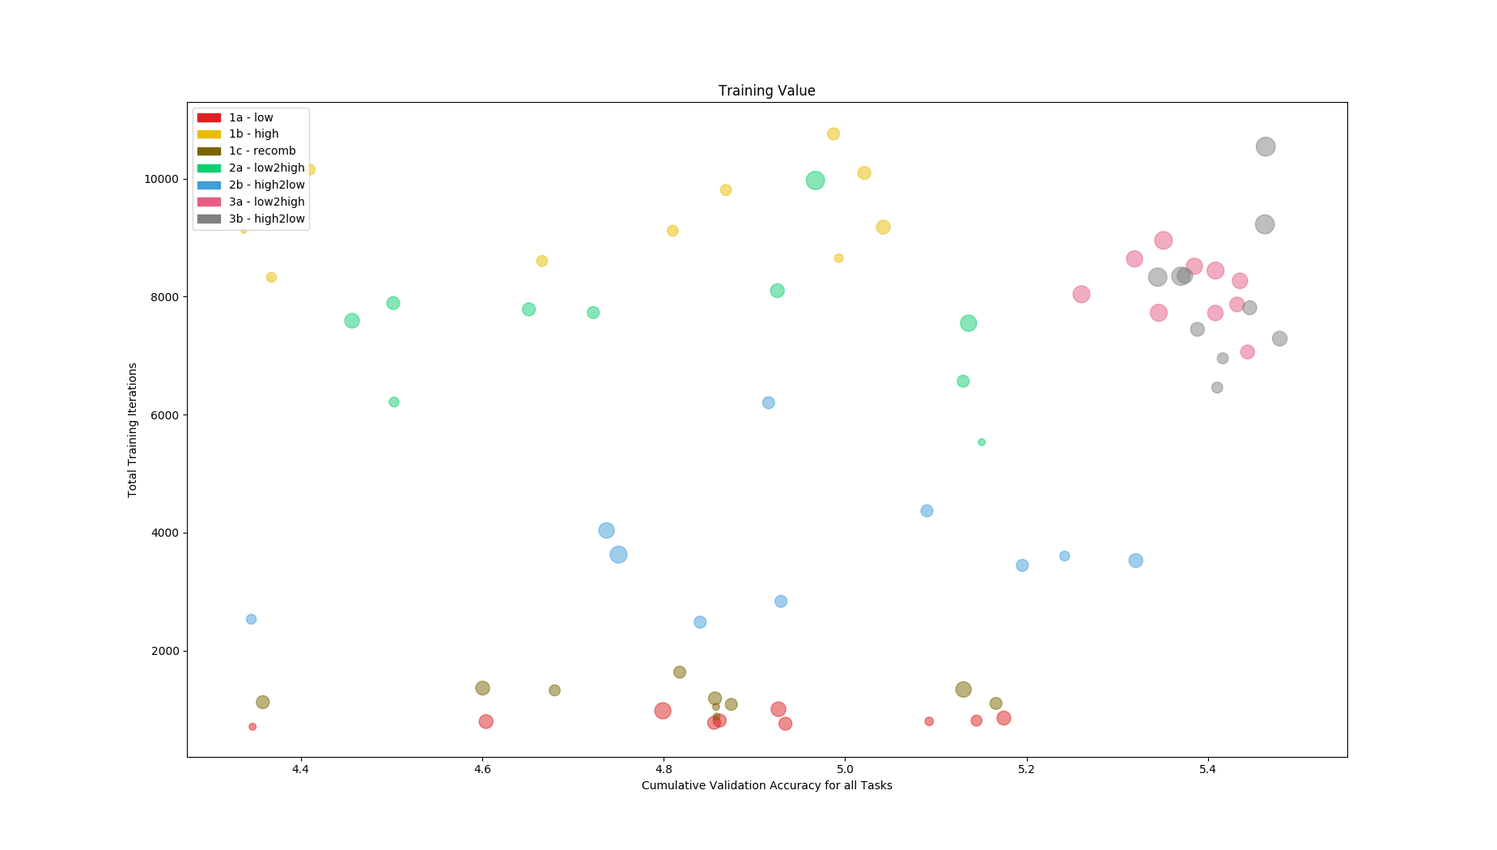
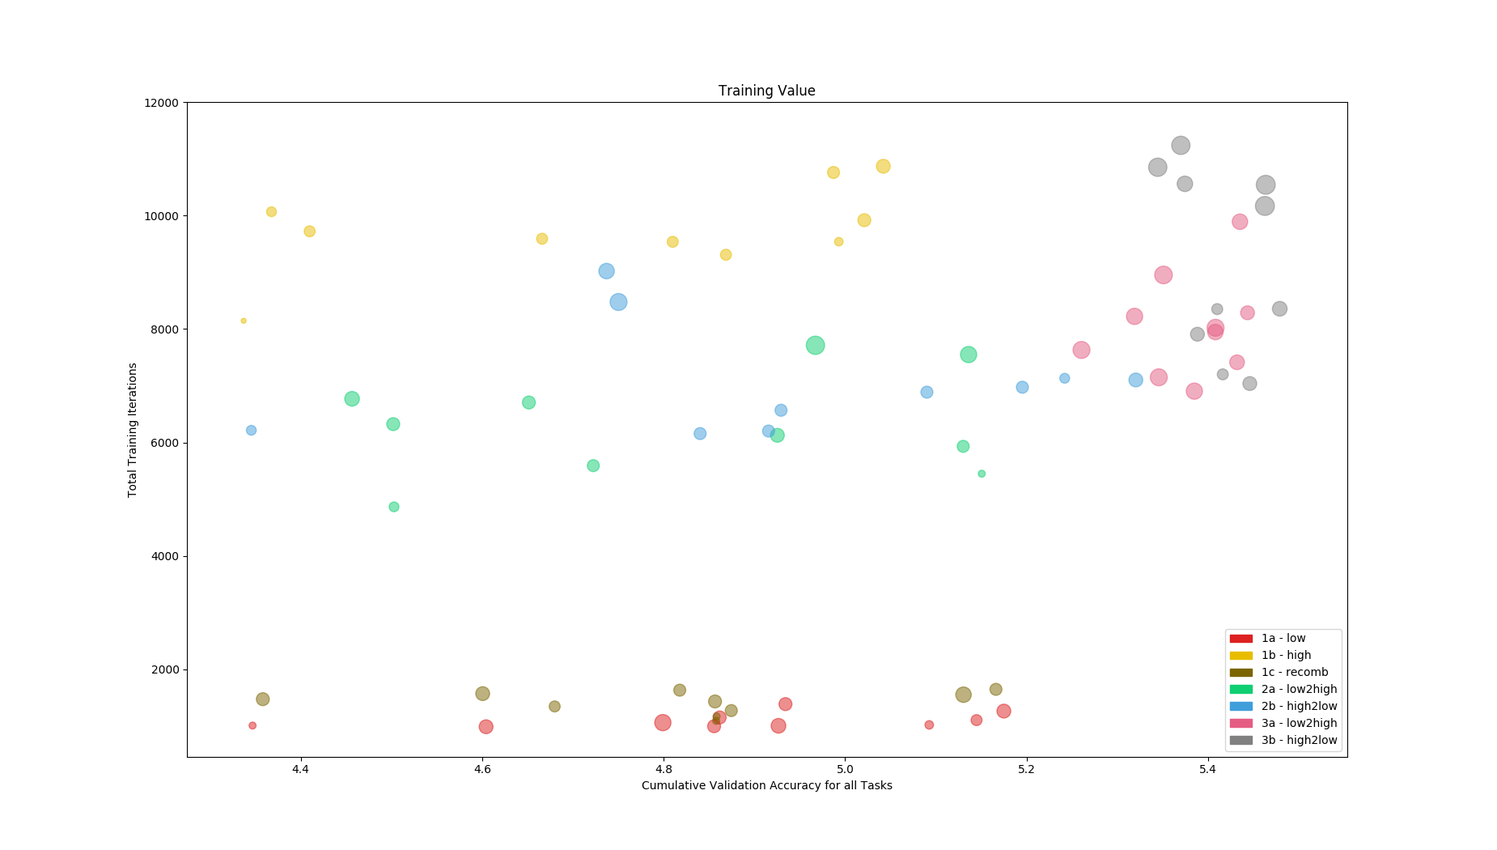
Results and discussions are close to being finished.

diff --git a/Chapters/Experiments/search_algo/tournament_searching.tex b/Chapters/Experiments/search_algo/tournament_searching.tex
@@ -102,7 +102,6 @@ It is hard to tell how the validated classification accuracy on the final task w
 
 % Some illustration of exploration vs exploitation: Hypothesis figure of where i think algorithms falls
 
- 
 \section{Implementation}\label{Search-implementation}
 \subsection{PathNet}
 The PathNet structure used for these experiments have three layers of 20 modules where each path may contain one, two or three modules in each layer. The 20 modules were selected to make sure there would be a a non-zero probability of selecting only empty modules for all tasks, even if all optimal tasks contained the maximum number of modules without any module overlap between tasks.
@@ -130,20 +129,20 @@ The order of paths still affect the the training but the fitness used for select
 The same reason influence the final step of the tournament search. When the limit of a hundred generations is reached, all paths in the population is evaluated again. Since the true fitness of a path might change from one generation to the next, only the paths participating in the final tournament has its true fitness score as part of the selection of the optimal path. As with the evaluation step, the final fitness of a path is the reached classification accuracy of one training unit (50 mini-batches of 16 samples). Using an actual validation set for this step might yield better, or at least more accurate, fitnesses to use as a basis for path-selection, but that would significantly increase the run-time of an already time intensive experiment. 
 
 \section{Results}\label{Search-results}
-Due to the experimentation being time-consuming, each algorithm were run 10 times, where logs were saved after each experimental run of each algorithm. The following plots have been separated in three groups based on subject: paths, search and training. 
+Due to the experimentation being time-consuming, each algorithm were run 10 times and logs were saved after each experimental run of each algorithm. The following plots have been separated in three groups based on subject: paths, search and training. 
 
 \subsection{Paths}
-\begin{figure}[h]
+\begin{figure}[p!]%[h]
     \includegraphics[width=\textwidth]{Chapters/Experiments/search_algo/figures/Average_path_size.png}
     \caption{Change in average path size for each tournament scheme plotted for each task.}
     \label{fig:search.avg_path_size}
 \end{figure}
 
-Figure \ref{fig:search.avg_path_size} visualize the average path size within the average population for all generations. Each subplot is for one Task and the search for that tasks optimal path. As each path contains between three and nine modules, the average path size is six and this is reflected in the plots where the average path size for all algorithms is around 6 for the first generations. Each search starts with a randomly initialized population of paths. Note the span of sizes plotted reach from around 5.5 to around 7.5, which indicates the average initialized size of 6 does not contain enough capacity as more often than not, the searches converges towards larger path sizes, especially for the later three tasks based on the cSVHN set. 
+Figure \ref{fig:search.avg_path_size} visualize the average path size within the average population for all generations. Each subplot is for one Task and the search for that tasks optimal path. As each path contains between three and nine modules, the average path size is six and this is reflected in the plots where this is the initial value for the first generations. Each search starts with a randomly initialized population of paths. Note the span of sizes plotted reach from around 5.5 to around 7.5, which indicates the average initialized size of 6 does not contain enough capacity as more often than not, the searches converges towards larger path sizes, especially for the later three tasks based on the cSVHN set. 
 
 A feature of this plot is the steep jump and quick convergence to a size for the searches with high selection pressure in for the early generations. Since mutation only causes the index of a module to change by a value between -2 and 2, the size of a path can not change during mutation \footnote{A path can not include the same module multiple times. If a module is mutated to overlap an existing one, it is removed. This causes the path to contain fewer modules, so mutated modules are added back in until original path size is reached.}. This means when algorithms with high selection pressure converges to a size early in the search, the size of paths can never change. For searches with low selection pressure (algorithm 1a, 1b, 2a for the earlier tasks and 2b for the later tasks), the generation limit of 100 is to low to let them reach an optimal size. 
 
-\begin{figure}[h]
+\begin{figure}[p!]%[h]
     \includegraphics[width=\textwidth]{Chapters/Experiments/search_algo/figures/Capacity_pr_generation.png}
     \caption{The average number of used modules during the multi-task learning sequence. Each jump is caused by the saving of an optimal path and then starting a new search for a new task. }
     \label{fig:search.capacity}
@@ -151,56 +150,101 @@ A feature of this plot is the steep jump and quick convergence to a size for the
 
 In figure \ref{fig:search.capacity} we can see some of the influence of path size in the average cumulative amount of capacity used during all generations. As with plot \ref{fig:search.avg_path_size}, the curves starts at capacity 6 and for the same reason. 
 
-For task 4 the capacity usage have separated for the three algorithm groups. All algorithms with static tournament size use less modules in the total PathNet than the other algorithms, and algorithms with changing tournament size between tasks use less than group three. Note that all algorithms has a higher capacity usage than the dotted gray line which marks the amount of module reuse that would have been reached for 6 tasks if all paths had a random module selection\footnote{This value was reached with a Monte Carlo approach.}.
+For task 4 the capacity usage have separated for the three algorithm groups. All algorithms with static tournament size use less modules in the total PathNet than the other algorithms, and algorithms with changing tournament size between tasks use less than group three. Note that all algorithms has a higher capacity usage than the dotted gray line which marks the amount of module reuse that would have been reached for 6 tasks if all paths had a random module selection\footnote{These values are reached by a Monte Carlo approach where \(10^{6}\) sequences of 6 random paths were selected in the same sized PathNet and the capacity used averaged.}.
 
-
-\subsection{Population Diversity}
-\ref{fig:search.hamming_diversity} visualizes the average calculated population diversity for each algorithm for each task. As this metric is dependent on the size of population as well as the number of genes in a genotype, the value at one point in the generation is not depictive of anything, but instead, the overall trend of the measure indicates at what rate the algorithm converges. 
-
-\begin{figure}[h]
-    \includegraphics[width=\textwidth]{Chapters/Experiments/search_algo/figures/Average_population_diversity_reduced_hamming.png}
-    \caption{The average pairwise Hamming distance within each generation is used as a measure for population diversity. Each subplot (in order left to right) is each task in trained order.}
-    \label{fig:search.hamming_diversity}
-\end{figure}
-
-As with plot \ref{fig:search.avg_path_size}, high selection pressures lead to rapid changes in diversity. This is because the searches with high selection pressure have a high tournament size compared with the population size. When a generation is over and  the tournament winner replace all losers, the population makes a large shift diversity unless most of the tournament participants have a similar genome. At that point, the probability that the population have converged is quite large. 
-
-\begin{figure}[h]
-    \includegraphics[width=\textwidth]{Chapters/Experiments/search_algo/figures/frequency_diversity_unique_path_count.png}
-    \caption{The number of unique paths within a population. Plotted for every task and every algorithm.}
-    \label{fig:search.frequency_diversity_unique}
-\end{figure}
-
-
-The Hamming distance between two binary genomes gives what is essentially the edit distance and not a measure of the fundamental difference between the genomes. This means the Hamming metric is accurate and quite descriptive when looking at one gene at a time, but for larger genomes can be somewhat miss leading in some circumstances. If for instance, a population consists of three even groups of three types of genomes, if one of the groups is split on the two other the diversity of the whole population have gone down\footnote{This is fairly obvious since we in this scenario is left with only two types of genomes, while we started with three}, but the pair-wise Hamming distance might have gone up. Because of this, it is hard to tell if the constantly high diversity levels is caused by using pair-wise Hamming distance as metric, or for instance high mutation probabilities. This effect becomes clear when comparing plot \ref{fig:search.hamming_diversity} with plot \ref{fig:search.frequency_diversity_unique}. This plot visualizes the amount of unique paths in a population and has therefore some problems that Hamming distance does not. Imagine a population containing two of the same path. If one of these mutates and one of the modules changes, Hamming increase by one which is negligible compared with the total Hamming score. A frequency count will also increase by one, but has a max value of 64 and therefore is a significant change. 
-
-\begin{figure}[h]
+\begin{figure}[p!]%[h]
     \includegraphics[width=\textwidth]{Chapters/Experiments/search_algo/figures/Module_reuse_pr_generation.png}
     \caption{The average module reuse during the multi-task learning sequence. Each jump is caused by the saving of an optimal path, and the next task having more locked modules to reuse. The first 100 generations does not have any previously learned knowledge to reuse.}
     \label{fig:search.reuse}
 \end{figure}
 
+The similar plot \ref{fig:search.reuse} show how the average amount of module reuse change during the generations. As with plot \ref{fig:search.capacity}, the dotted grey line represents the amount of module reuse in a random selection of modules\footnote{These values are reached by a Monte Carlo approach similar to plot \ref{fig:search.capacity}.} instead of search. Between the two last tasks we see a large jump in module reuse for algorithm 2a compared to the rest. The dynamic tournament size algorithms 3a and 3b has the least reuse for task 4 and 3b seem to lower its reuse significantly during each search. 
+
+When visualizing search features for the different algorithms that stem from different generations during each search, the algorithms using a high tournament size have curves undergoing rapid changes and algorithms using low tournament sizes have curves with more gradual changes. Plot \ref{fig:search.reuse} is no different, which can make it hard to tell if there is an increase or decrease in reuse for algorithms 1b and 2a for the last 600 generations. 
+
+\subsection{Population Diversity}
+\ref{fig:search.hamming_diversity} visualizes the average calculated population diversity for each algorithm for each task. As this metric is dependent on the size of population as well as the number of genes in a genotype, the value at one point in the generation is not depictive of anything, but instead, the overall trend of the measure indicates at what rate the algorithm converges. 
+
+\begin{figure}[p!]%[h]
+    \includegraphics[width=\textwidth]{Chapters/Experiments/search_algo/figures/Average_population_diversity_reduced_hamming.png}
+    \caption{The average pairwise Hamming distance within each generation is used as a measure for population diversity. Each subplot (in order left to right) is each task in trained order.}
+    \label{fig:search.hamming_diversity}
+\end{figure}
+
+As with plot \ref{fig:search.avg_path_size}, high selection pressures lead to rapid changes in diversity. This is because the searches with high selection pressure have a high tournament size compared with the population size. When a generation is over and  the tournament winner replace all losers, the population makes a large shift in diversity unless most of the tournament participants have a similar genome. At that point, the probability that the population have converged is quite large. 
+
+\begin{figure}[p!]%[h]
+    \includegraphics[width=\textwidth]{Chapters/Experiments/search_algo/figures/frequency_diversity_unique_path_count.png}
+    \caption{The number of unique paths within a population. Plotted for every task and every algorithm.}
+    \label{fig:search.frequency_diversity_unique}
+\end{figure}
+
+The Hamming distance between two binary genomes gives what is essentially the edit distance and not a measure of the fundamental difference between the genomes. This means the Hamming metric is accurate and quite descriptive when looking at one gene at a time, but for larger genomes can be somewhat misleading in some circumstances. Take for instance, a population consisting of three even groups of three types of genomes. If one group is replaced with genomes from the two other groups such that the population consists of two equal parts of each genome, the diversity of the whole population have gone down\footnote{This is fairly obvious since we in this scenario is left with only two types of genomes, while we started with three}, but the pair-wise Hamming distance might have gone up. Because of this, it is hard to tell if the constantly high diversity levels is caused by using pair-wise Hamming distance as metric, or for instance high mutation probabilities. This effect becomes clear when comparing plot \ref{fig:search.hamming_diversity} with plot \ref{fig:search.frequency_diversity_unique}. This plot visualizes the amount of unique paths in a population and has therefore some problems as a diversity metric that Hamming distance does not. A mutated genome would be considered to be a similar genotype to its original state, and a pair-wise Hamming distance would reflect this by only counting the small genome change between these two. On the other hand, a unique genotype frequency metric would count these two genotypes as completely different.
+
 \subsection{Training}
-\begin{figure}[h]
+\begin{figure}[p!]%[h]
     \includegraphics[width=\textwidth]{Chapters/Experiments/search_algo/figures/Training_accuracy.png}
     \caption{Average training accuracy during search. The dotted lines is the average achieved validation accuracy for that task and that algorithm.}
     \label{fig:search.accuracy}
 \end{figure}
+As the training of each path is done during and controlled by the search, how the average training accuracy develops gives an indication of how quickly the algorithms are able to influence the overall PathNet to learn a task. As discussed previously, the act of training one tournament of genomes effect the previously evaluated fitness values. Because of this, the populations average fitness values would be a highly misleading metric to use and therefore what is plotted here is the average fitness score achieved within a each generations tournament. Also plotted is the average validation accuracy reach for each algorithm. This validation score is only calculated after an optimal path have been found for each task, and can therefore not be viewed as a function of generation number. 
 
-\begin{figure}[h]
+\begin{figure}[p!]%[h]
     \includegraphics[width=\textwidth]{Chapters/Experiments/search_algo/figures/Training_value.png}
     \caption{The total amount of training in all optimal paths for each multi-task learning sequence plotted against the cumulative validation accuracy reached for that sequence. The circle size corresponds to the total number of used PathNet modules.}
     \label{fig:search.training_value}
 \end{figure}
 
-\begin{figure}[h]
-    \includegraphics[width=\textwidth]{Chapters/Experiments/search_algo/figures/Used_training_ratio.png}
-    \caption{Boxplot of the ratio of training in optimal path on total training.}
-    \label{fig:search.usefull_training}
-\end{figure}
+The training value plot \ref{fig:search.training_value} the amount of training each multi task sequence went through for all 6 tasks. As expected, algorithms with high tournament size (algorithm 1b) have the higher amount of training units, while the low tournament size algorithms (algorithm 1a and 1c) undergo the least training.
 
+The x axis in this plot is the cumulative validation accuracy for all tasks within the multi task sequences, meaning algorithms that cluster on the right side of the plot have a better accuracy over all. 
+
+Lastly, the circle size reflect how much total capacity was used in the PathNet for each experimental run. Described simply, small circles in the bottom right corner means the algorithm used few weights, took little training and had a good classification accuracy. Comparatively, large circles in the top left corner used a relatively large amount of weights, took long to train and had a low return on investment in classification accuracy. The clear clustering of experimental runs for each algorithm spatially is expected in this plot as the number of training units is easy to predict from the tournament size, however, the clear divide between algorithm 2a and 2b is surprising.
 
 \section{Discussion}
+\textbf{EDIT NOTE: Rerun of experiments might change results}
+
+Unraveling the amount of information that came as a result of these experimental runs can lean towards the disorienting if not chaotic. In an attempt to be able to discuss the plots mentioned in the previous section, the algorithms are juxtaposed within selection pressure groups first before comparisons are made between them. 
+
+\subsection{Low selection pressure}
+Algorithms 1a and 1c have the lowest convergence rate, and as a result of this have also the most gradual changes during each search. Given the modules under these algorithms experience the least amount of training we would expect these to reach a lower classification accuracy, but performing a one-way ANOVA test of the null hypothesis
+\begin{equation*}
+    \label{eq:H0.accuracy.notLowPressure}
+    H_{0}:\bar{\mu}_{1_{a}}=\bar{\mu}_{1_{b}}=\bar{\mu}_{1_{c}}=\bar{\mu}_{2_{a}}=\bar{\mu}_{2_{b}}
+\end{equation*}
+where \(\mu_{x}\) is the mean validation accuracy of algorithm x, gave no p values under the significance level of 0.05, and the alternate hypothesis
+\begin{equation*}
+    \label{eq:H0.accuracy.notLowPressure}
+    H_{A}:\bar{\mu}_{a_{i}} \neq \bar{\mu}_{a_{j}} 
+\end{equation*}
+is true for at least one pair of algorithms \(a_{i}\) and \(a_{j}\), where both \(a_{i} \land a_{j} \in A\), and where \(A\) is the set of all algorithms. Looking at figure \ref{fig:search.validation}, the reason for the lowered mean in plot \ref{fig:search.accuracy} seems to be caused by an outlier in the data.
+
+\begin{figure}[p!]%[h]
+    \includegraphics[width=\textwidth]{Chapters/Experiments/search_algo/figures/validation_boxplot.png}
+    \caption{Boxplot of validation accuracy reached for each task and each algorithm.}
+    \label{fig:search.validation}
+\end{figure}
+
+Across all metrics, 1a and 1c have about the same performance. An ANOVA test confirm there is no significant difference between the two algorithms validation accuracy means. Plot \ref{fig:search.training_value} shows algorithm 1c trains a bit more on average than 1a, but this is to be expected as the tournament size for algorithm 1c is three while 1a has the lowest size at two. 
+
+During the searches, plot \ref{fig:search.avg_path_size} indicated algorithm 1c tends to yield larger paths on average than 1a, but a significance test of the average size of optimal paths for the two algorithms does not lend confidence to this claim. In fact, no significant difference were found between the average size of selected optimal paths or between the average path size in the final generation in each search, meaning the results shown in \ref{fig:search.avg_path_size} is not significant.
+
+The diversity plots indicates that neither of the algorithms with low selection pressure reaches some state of converged population, where algorithm 1c barely changes. Measuring the diversity of this algorithm as a unique genome frequency does not work, as the recombination makes sure the next generations new genome is not a duplicate unless both parents are equal. The probability of the population having a significant portion being duplicates of each other is to low for this to have a decent chance of happening within the first 100 generations. 
+
+\subsection{Scaling selection pressure}
+Algorithms 2a and 2b does not differ in performance from each other or the algorithms with low selection pressure, and they do not have a significant difference for any metric other than module reuse. 
+
+After task 3b, the mean reuse in the two algorithms were not significantly different and around 5, but for task 6 there is a jump of 1.5 modules on average. This is prominent in plot \ref{fig:search.reuse}. There is no obvious reason behind this jump except for the tournament size for this task, and a some ANOVA test confirm that algorithms with a high tournament size of 25 for the last task have no significant difference in module reuse.  
+
+Regarding convergence rate and diversity metrics, the two algorithms does not produce anything unexpected. Low tournament size leads to low convergence rate and vice versa, meaning both algorithms gradually change between high and low convergence rate depending on whether the algorithm increase or decrease tournament size for each task.
+
+\subsection{Dynamic selection pressure}
+The last two algorithms 3a and 3b gave the most consistent results for performance and resource demands. They both reach a higher classification accuracy on the validation data which differ significantly from the rest of the algorithms for all tasks on cSVHN. Between them the only performance difference is at the last task where algorithm 3b scores the highest of all algorithms tested with a mean classification accuracy of 80\%\footnote{In the original PathNet paper, a PathNet structure pretrained on the CIFAR set reached a classification accuracy of about 40\% after 500 generations when training on cSVHN, however the PathNet consisted of fully connected modules and not convolutional operations which is the case here.}.
+
+The trade-off for the comparatively high classification accuracy comes in the amount of training where they train longer than the other algorithms with changing selection pressure (2a and 2b). Using multiple ANOVA tests, mean amount of training units of algorithm 3b does not differ from algorithm 1b, but 1b have a higher training mean than 3a.
+
+Again by using multiple ANOVA tests, the amount of module reuse for algorithms 3a and 3b for task 4 can be shown to not differ from each other but have a lower reuse than all other algorithms. 
+
 \subsection{Plot \ref{fig:search.avg_path_size}}
 While algorithms in group 1 and 2 follow their group rule of reaching convergence for high selection pressure, or not converge within 100 generations for the low selection pressures, algorithms 3a and 3b both converge within the 100 first generations. This could be because these searching schemes both are effective ways of optimizing the capacity in paths, or it might be that the average selection pressure within these searches is a selection pressure that works well for this generation limit. We can back up this claim by the fact that algorithms 2a and 2b both converge for task 3 and 4, which for these algorithms and these tasks, have about the same tournament size as the average tournament size in 3a and 3b. 
 
@@ -209,8 +253,13 @@ As a paths size can not change due to mutation, it is reasonable that some of th
 \subsection{Plot \ref{fig:search.frequency_diversity_unique}}
 \subsection{Plot \ref{fig:search.capacity}}
 \subsection{Plot \ref{fig:search.reuse}}
+compare capacity use for 2a in task 3b and 4 with reuse for the same. Can the spike be caused by a larger capacity use of alg 2a and therefore higher probability of reuse?
 \subsection{Plot \ref{fig:search.accuracy}}
+Algorithm 2a is the most overfitted of the algorithms. Why?
+Lower tournament sizes adapt slower to data because they train fewer modules each generation. Would a longer search duration let lower tournament sizes get even better than high?
+Does the large tournament sizes not improve after 20 generations, or is the learning hidden behind the large tournament size? Is the only difference worth talking about the one between algorithm 3a and 3b? Does the algorithms seem task specific? 
 \subsection{Plot \ref{fig:search.training_value}}
-\subsection{Plot \ref{fig:search.usefull_training}}
 
 \section{Conclusion}
+- Recomb would probably need a high search termination limit. Modules would overfit before that happens. Other recombination scheme might be better suited for this type of search than the simple one used here. 
+- Low trains quickly and reaches a performance the same as most of the other algorithms. Few total number of training iterations cause the modules not to overfit mentionably. A population of 64 and terminationlimit of 100 might not be well suited for this algorithm though. A higher generation limit would give the algorithm a decent chance at finding a optimal path within its population, and a smaller population size together with maybe a higher mutation rate increase the probability of pretrained(MAYBE JUST A SMALLER PATHNET?) modules to be tried in a path before new modules have optimized so much that introducing a old module to a path would reduce fitness below that of the newly trained modules. - Having a high tournament size for the later searches yield higher module reuse than lower tournament sizes, regardless if the previously trained modules were trained using a high or low tournament size. 
